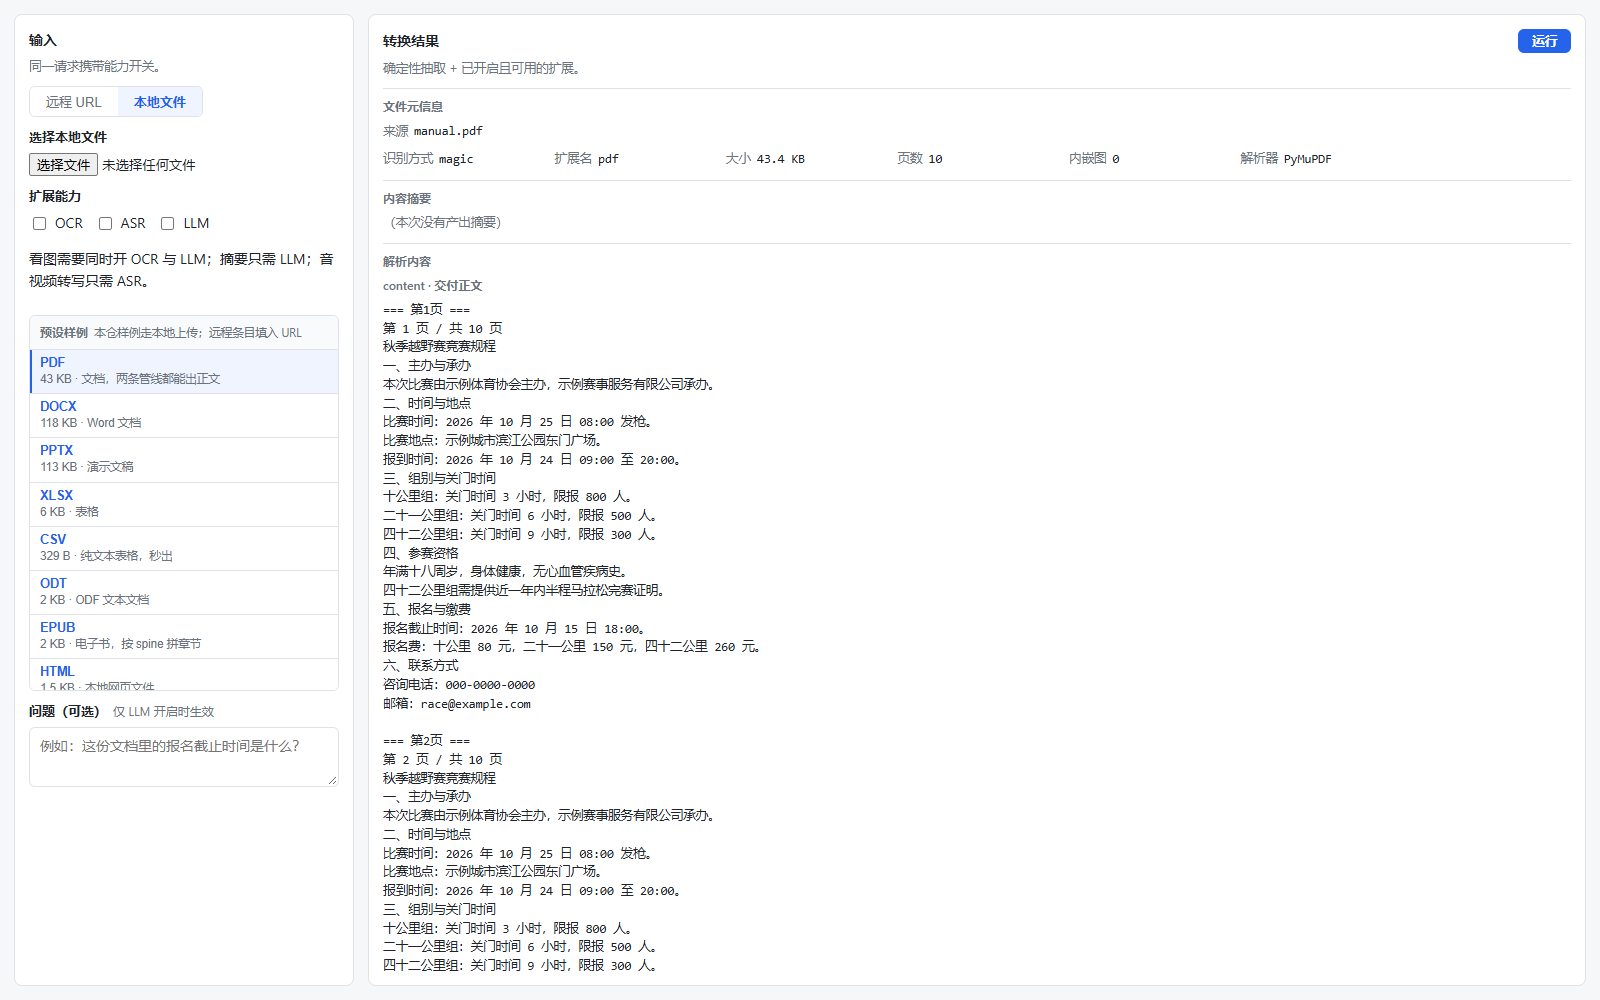
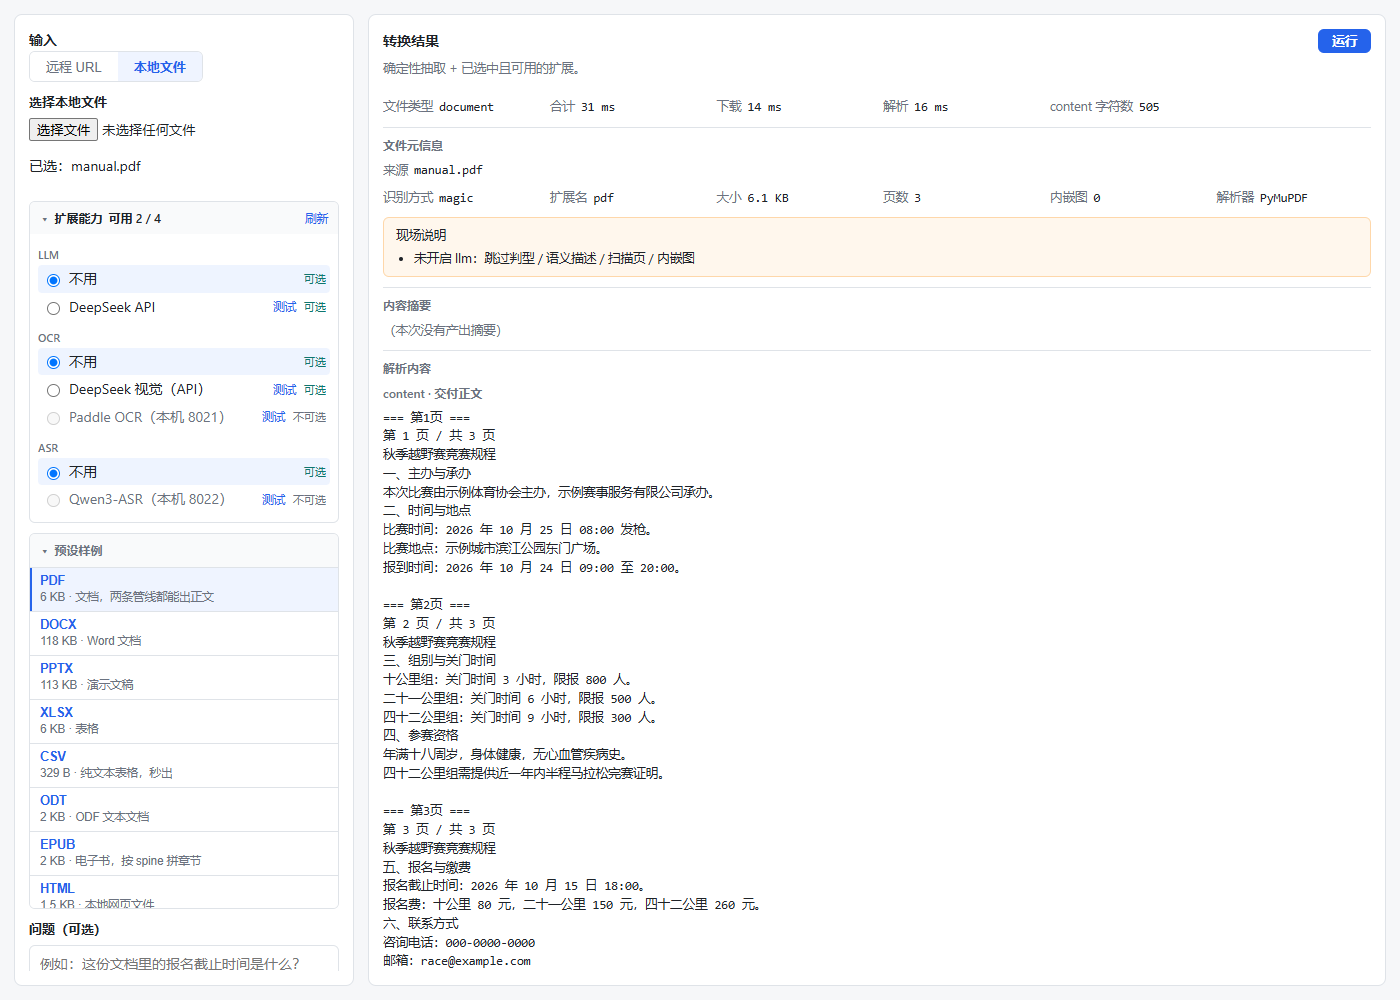
docs: 按新界面与三页样例重截三张截图
三张图都还是旧界面（三个勾选框），PDF 那张还写着「共 10 页」——而样例早就是 3 页了。
服务在跑，直接照原配方重截：

- screenshot-web.png：DOCX 抽取 + 新界面（扩展能力卡片 / 刷新 / 测试按钮 / 可选与不可选）；
- screenshot-pdf.png：页数 3、三页内容各不同、现场说明带「未开启 llm：跳过判型…」；
- screenshot-table.png：xlsx 的表格还原。

图注里「能力开关」改成「扩展能力」。

diff --git a/README.md b/README.md
@@ -6,7 +6,7 @@
 
 [项目介绍](#项目介绍) · [快速开始](#快速开始) · [怎么工作](#怎么工作) · [接口用法](#接口用法) · [项目结构](#项目结构) · [许可与第三方](#许可与第三方)
 
-![前端：输入区（模式 / 能力开关 / 预设样例）与结果区（用量、统计、元信息、正文）](docs/images/screenshot-web.png)
+![前端：输入区（模式 / 扩展能力 / 预设样例）与结果区（用量、统计、元信息、正文）](docs/images/screenshot-web.png)
 ![PDF：按页标注的正文抽取，元信息给出页数与解析器](docs/images/screenshot-pdf.png)
 ![xlsx：表头与列位对齐，空单元格不错位](docs/images/screenshot-table.png)
 
